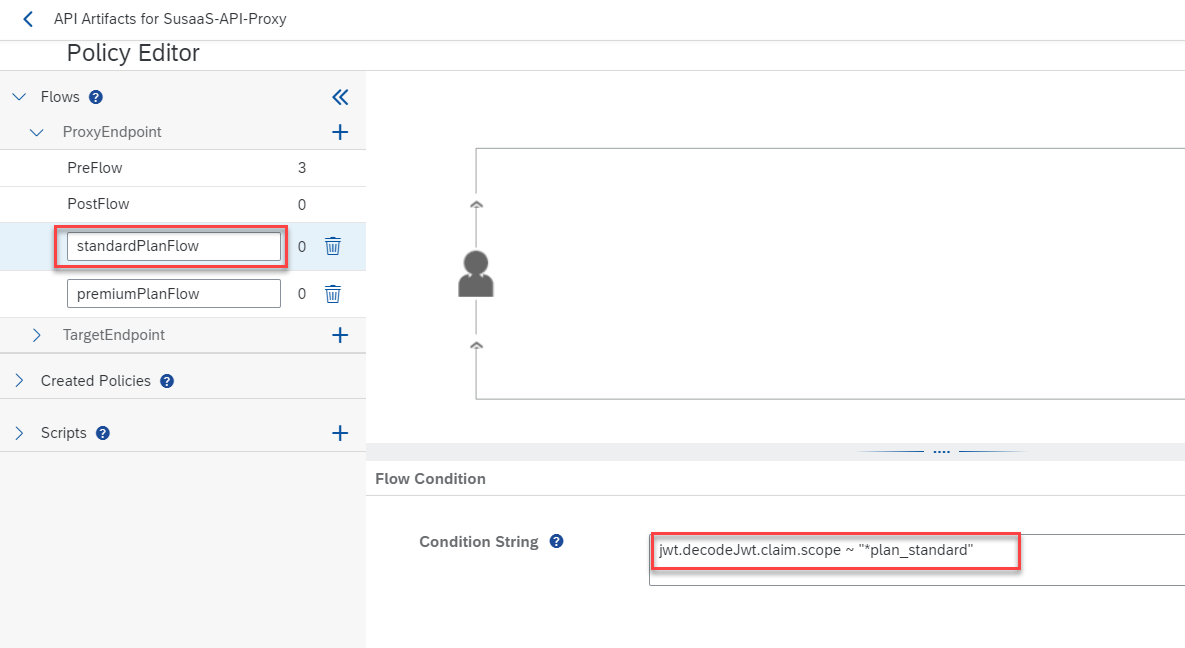
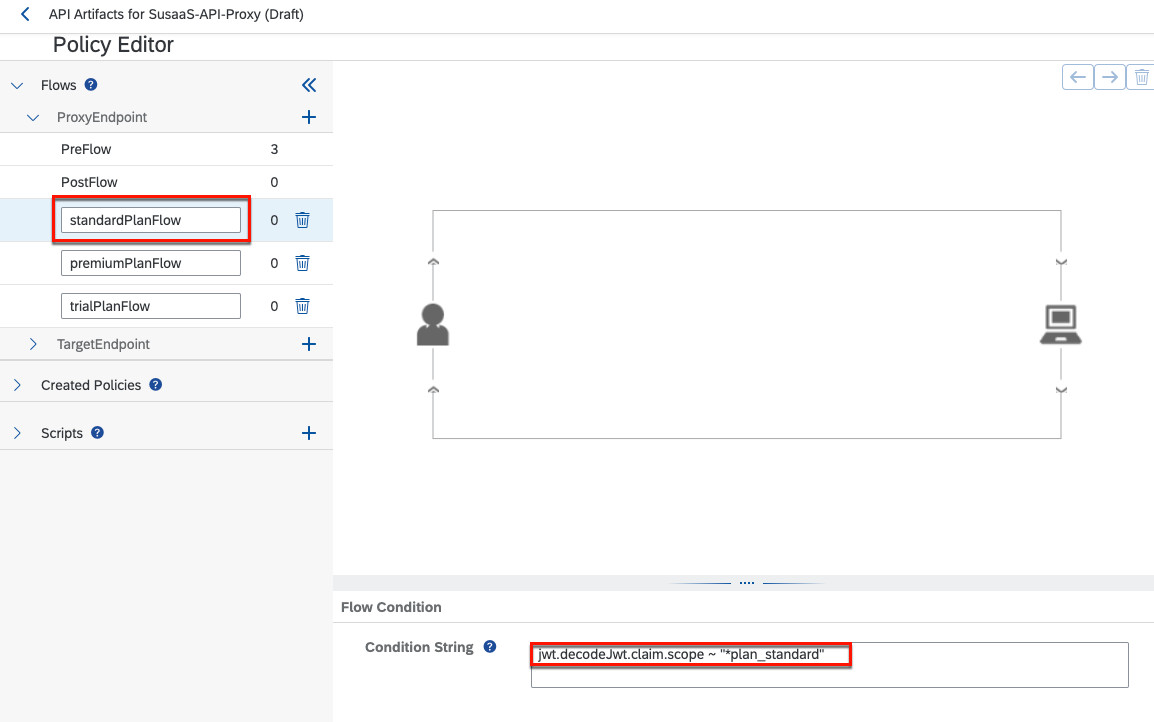
Update API Mgmt Integration docu

diff --git a/docu/3-advanced/4-cf-integrate-api-management/README.md b/docu/3-advanced/4-cf-integrate-api-management/README.md
@@ -35,9 +35,16 @@ See the relevant part of the solution architecture below (click to enlarge):
 
 ## 2. Prerequisites
 
-For this setup, please make sure you have an SAP API Management instance up and running. As SAP API Management is a capability of **SAP Integration Suite**, please subscribe to SAP Integration Suite and activate the respective **API Management** feature. Check the following SAP Help documentation to find a detailed step-by-step guide ([click here](https://help.sap.com/docs/SAP_CLOUD_PLATFORM_API_MANAGEMENT/66d066d903c2473f81ec33acfe2ccdb4/f6eb4332cd5144ef91f4a84cc614ba1c.html?locale=en-US)). 
+For this setup, please make sure you have an SAP API Management instance up and running. As SAP API Management is a capability of **SAP Integration Suite**, please subscribe to SAP Integration Suite and activate the respective **API Management** feature. 
+
+Check the following SAP Help documentations to find detailed step-by-step guide.
+
+- [SAP Help - Setting Up API Management Capability from Integration Suite](https://help.sap.com/docs/sap-api-management/sap-api-management/setting-up-api-management-capability-from-integration-suite)
+- [Tutorial Navigator - Set Up API Management from Integration Suite](https://developers.sap.com/tutorials/api-mgmt-isuite-initial-setup.html)
 
 [<img src="./images/API_IntegrationSuite.png" width="500" />](./images/API_IntegrationSuite.png?raw=true)
+
+Please ensure the **API Management** capability of your **SAP Integration Suite** instance is successfully enabled before continuing with any of the next steps! 
 
 
 ## 3. APIM as route service
@@ -46,11 +53,11 @@ To connect your SaaS API with SAP API Management, you can use an SAP BTP service
 
 Combining this service instance with your API route allows you to enforce API policies like Spike Arrest or Quotas no matter whether the accessing client is calling the API Proxy URL or the standard route of your API. So please set up an instance of the **apim-as-a-route-service** offering as you can see in the following screenshot. 
 
-> **Hint** - If you cannot find the respective service plan, make sure you assigned it in your subaccount entitlements!
+> **Hint** - If you cannot find the respective service plan, make sure you assigned it in your subaccount entitlements! The service plan is part of the **API Management, API portal** service! 
 
 [<img src="./images/API_ServiceInstance.png" width="500" />](./images/API_ServiceInstance.png?raw=true)
 
-As SAP Integration Suite is one of the most powerful but also quite expensive SaaS products, you might consider the usage for your productive SaaS environment only.
+As SAP Integration Suite is one of the most powerful but also quite expensive SaaS products, you might consider the usage for your **productive SaaS environment** only.
 
 
 ## 4. Bind the route service
@@ -60,28 +67,24 @@ Now you need to bind the route service to your standard SaaS API route. This can
 **Windows (Command Line)**
 
 >```sh
-> cf brs `<API service domain>` `<route service>` \
->        --hostname `<API service hostname>` -c '{\"api_name\":\"<API-Proxy name>\"}'
+> cf brs `<API service domain>` `<route service>` --hostname `<API service hostname>` -c '{\"api_name\":\"<API-Proxy name>\"}'
 >
 > # Example #
-> cf brs cfapps.eu10.hana.ondemand.com susaas-apim-route-service \
->        --hostname dev-susaas-api-srv -c '{\"api_name\":\"SusaaS-API-Proxy\"}'
+> cf brs cfapps.eu10.hana.ondemand.com susaas-apim-route-service --hostname dev-susaas-api-srv -c '{\"api_name\":\"SusaaS-API-Proxy\"}'
 >```
 
-**Windows (Power Shell)**
+**Mac & Windows (Power Shell)**
 
 >```sh
-> cf brs `<API service domain>` `<route service>` \
->        --hostname `<API service hostname>` -c "{\"api_name\":\"<API-Proxy name>\"}"
+> cf brs `<API service domain>` `<route service>` --hostname `<API service hostname>` -c "{\"api_name\":\"<API-Proxy name>\"}"
 >
 > # Example #
-> cf brs cfapps.eu10.hana.ondemand.com susaas-apim-route-service \
->        --hostname dev-susaas-api-srv -c "{\"api_name\":\"SusaaS-API-Proxy\"}"
+> cf brs cfapps.eu10.hana.ondemand.com susaas-apim-route-service --hostname dev-susaas-api-srv -c "{\"api_name\":\"SusaaS-API-Proxy\"}"
 >```
 
 * **route service** - The name of your route-service instance created in the [last step](./README.md#3-apim-as-route-service).
-* **API-Proxy name** - You're free to choose the name of your API-Proxy in API Management.
-* **API service domain** - The domain of your API service like *cfapps.eu10.hana.ondemand.com*.
+* **API-Proxy name** - You're free to choose a name your choice for the API-Proxy which will be created in API Management.
+* **API service domain** - The domain of your API service like *cfapps.eu10.hana.ondemand.com* or your custom domain.
 * **API service hostname** - The hostname of your API service returned by the *cf apps* CLI command. <br>
 [<img src="./images/API_Hostname.png" width="500" />](./images/API_Hostname.png?raw=true)
 
@@ -181,13 +184,13 @@ Just create a new Subflow for the **Proxy Endpoint**, by clicking on the **+** i
 
 > **Hint** - Reading the service plan from the JWT token scopes might be improved by a different approach in the future.
 
-5.3.6. Now requests will be handled by the different Subflows depending on the consumer's service plan selection. In those Subflows, we can define different **Quota** allowances. To add a very simple **Quota limit** to the API, we use the **Quota** feature from the policies toolbox. 
-
-Please name the new flow elements **quotaStandard** in the standard, **quotaPremium** in the premium and **quotaTrial** in the trial flow. 
+5.3.6. Now requests will be handled by the different Subflows depending on the consumer's service plan selection. In those Subflows, we can define different **Quota** allowances. To add a very simple **Quota limit** to the API, we use the **Quota** feature from the policies toolbox. Please name the new flow elements **quotaStandard** in the standard, **quotaPremium** in the premium and **quotaTrial** in the trial flow. 
 
 [<img src="./images/API_Quota04.png" width="600" />](./images/API_Quota04.png?raw=true)
 
 5.3.7. For our sample application, the **standard** and **trial** quota is configure as below. This configuration allows API customers exactly 1200 daily requests to your API. The comprehensive configuration options of the **Quota** policy can be found in the respective documentation [click here](https://docs.apigee.com/api-platform/reference/policies/quota-policy). 
+
+> **Hint** - For the **premium plan**, you we double the number of daily requests to 2400, but feel free to update it to a configuration of your choice.  
 
 > **Important** - Please ensure, the **Quota** policy configuration once again contains the **Client Id** identifier as in the following sample.
 
@@ -203,9 +206,19 @@ Please name the new flow elements **quotaStandard** in the standard, **quotaPrem
 </Quota>
 ```
 
-> **Hint** - For the **premium plan**, you we double the number of daily requests to 2400, but feel free to update it to a configuration of your choice.  
+[<img src="./images/API_Quota05.png" height="200" />](./images/API_Quota05.png?raw=true)
 
-[<img src="./images/API_Quota05.png" width="600" />](./images/API_Quota05.png?raw=true)
+5.3.8. Double check the **Condition String**s of your Subflows and the respective quota configurations, which should resemble the following screenshots.
+
+[<img src="./images/API_Subflows03.png" height="200" />](./images/API_Subflows03.png?raw=true)
+[<img src="./images/API_Subflows04.png" height="200" />](./images/API_Subflows04.png?raw=true)
+
+[<img src="./images/API_Subflows05.png" height="200" />](./images/API_Subflows05.png?raw=true)
+[<img src="./images/API_Subflows06.png" height="200" />](./images/API_Subflows06.png?raw=true)
+
+[<img src="./images/API_Subflows07.png" height="200" />](./images/API_Subflows07.png?raw=true)
+[<img src="./images/API_Subflows08.png" height="200" />](./images/API_Subflows08.png?raw=true)
+
 
 ### 5.5. Update API Proxy and deploy changes 
 
@@ -237,7 +250,6 @@ The API Management as route service (sap-apim-route-service) instance can also b
 
 ```yaml
 resources:
-  
   - name: susaas-api-route-service
     type: org.cloudfoundry.managed-service
     parameters: